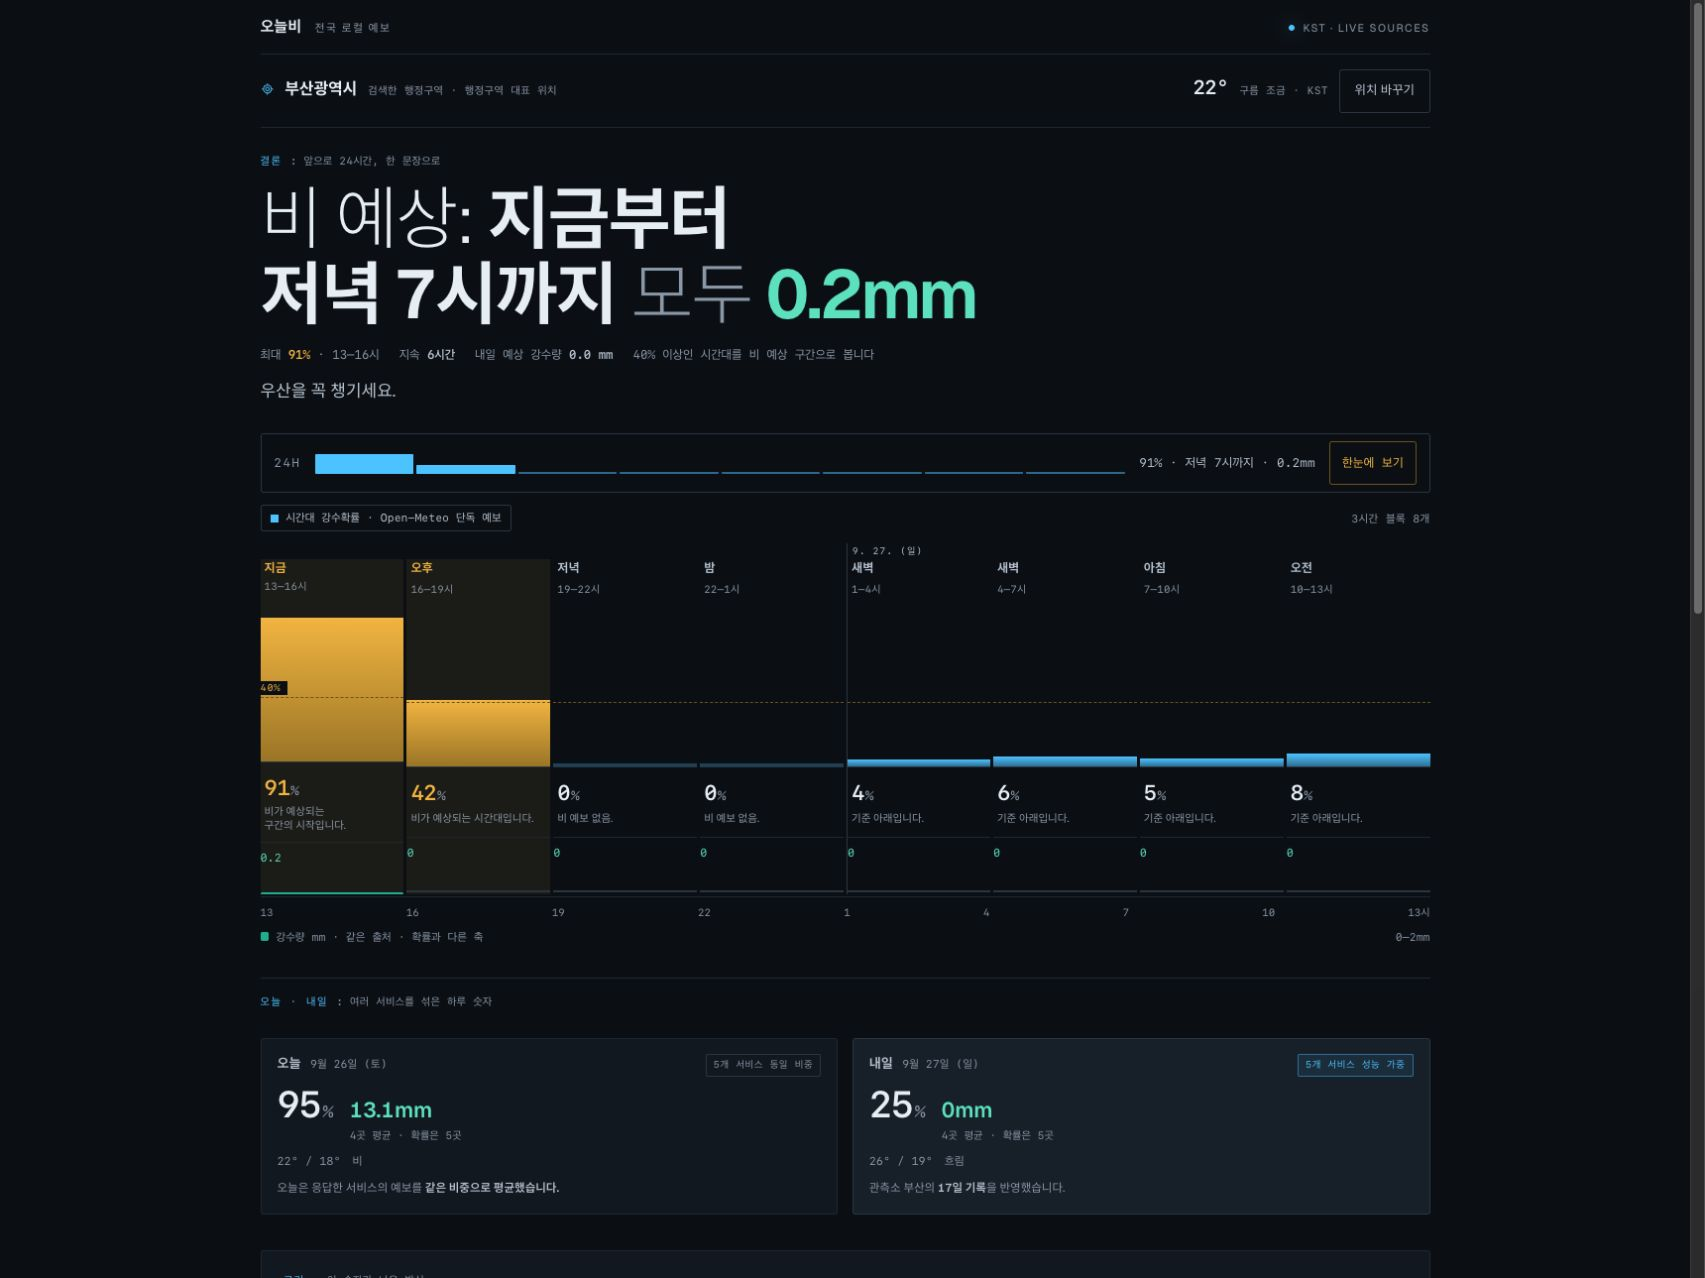
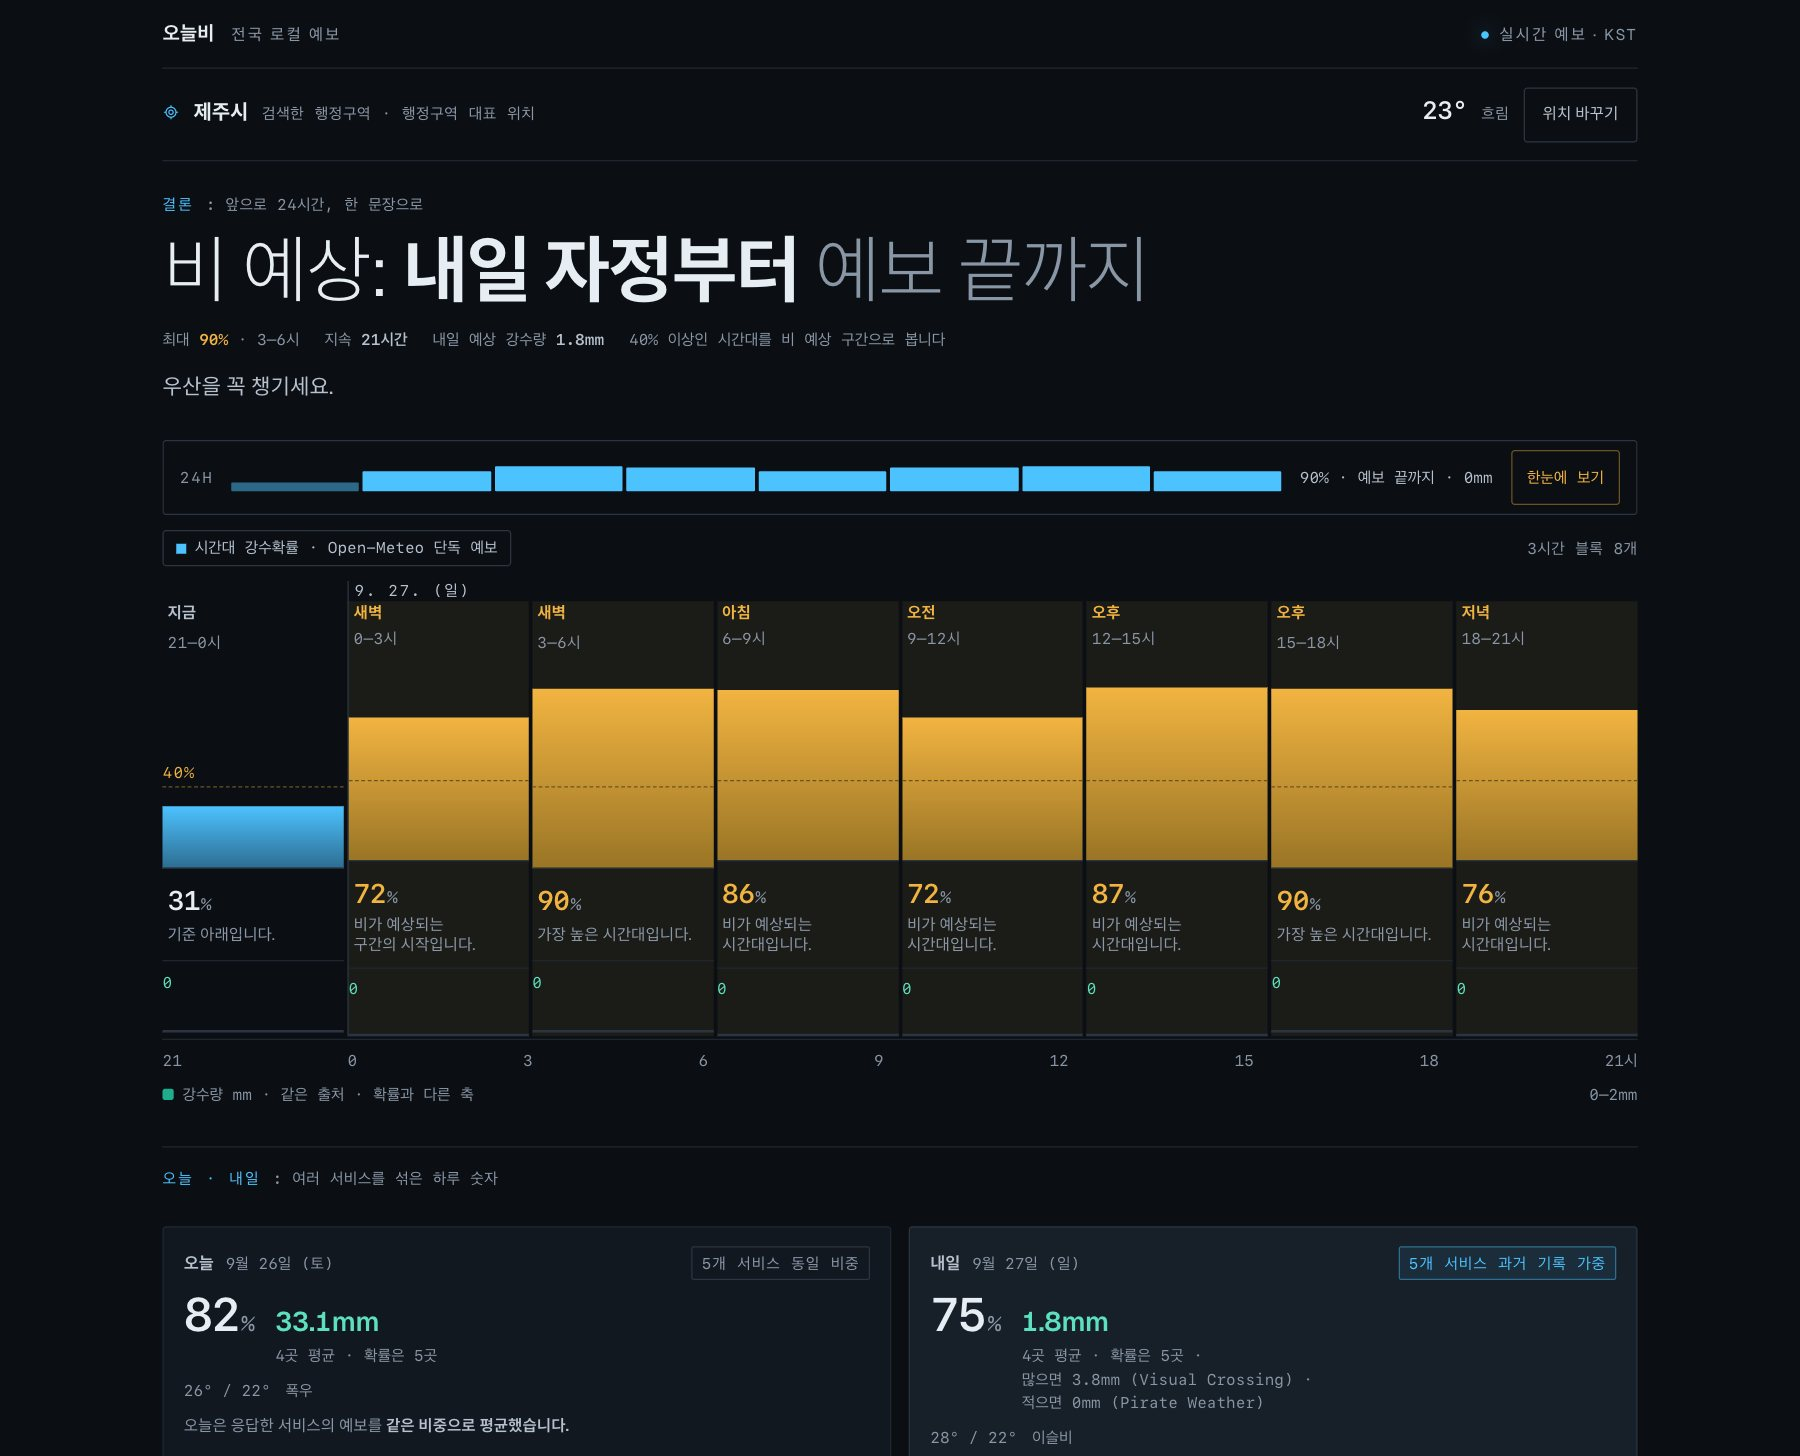
Release 2.0.1: unbroken provider names, a new README screenshot and a release rule (#184)
* fix(ui): keep each amount-range clause and provider name on one line

* docs: retake the README rain screenshot with the current interface

* docs: release every merged change with a semantic version

* chore: release 2.0.1

diff --git a/components/local/LocalForecastExperience.tsx b/components/local/LocalForecastExperience.tsx
@@ -278,8 +278,10 @@ function SearchMark() {
 
 // The no-break space ties each dot to the name before it, so a wrapped list
 // never opens its next line with a separator.
-// A provider is one name: "Pirate Weather" must not break across a line.
-const providerList = COMPARED_PROVIDER_NAMES.map((name) => name.replace(/ /g, "\u00a0")).join("\u00a0· ");
+// A provider is one name ("Pirate Weather"), and "많으면 3.8mm (Visual Crossing)"
+// is one clause: neither may break across a line.
+const keepWhole = (text: string): string => text.replace(/ /g, "\u00a0");
+const providerList = COMPARED_PROVIDER_NAMES.map(keepWhole).join("\u00a0· ");
 
 export function LocationChooser({ onChoose, autoFocus = false, busy = false }: {
   onChoose(input: ChosenForecastLocation): void;
@@ -1342,7 +1344,7 @@ function ForecastDashboard({ forecast, selection, onReset, recordHref }: {
                 {/* The extremes are named members, not percentiles — n≤4 cannot
                     honestly support interval language. */}
                 {amountRange &&
-                  ` · 많으면 ${formatMm(amountRange.maxMm)}mm (${amountRange.maxName}) · 적으면 ${formatMm(amountRange.minMm)}mm (${amountRange.minName})`}
+                  `\u00a0· ${keepWhole(`많으면 ${formatMm(amountRange.maxMm)}mm (${amountRange.maxName})`)}\u00a0· ${keepWhole(`적으면 ${formatMm(amountRange.minMm)}mm (${amountRange.minName})`)}`}
               </small>
             </p>
           </div>

diff --git a/components/local/LocalForecastExperience.test.tsx b/components/local/LocalForecastExperience.test.tsx
@@ -1666,8 +1666,10 @@ test("the tomorrow card attributes its amount range to the providers that said i
   );
   const cells = [...view.container.querySelectorAll(".local-day-mm")].map((c) => c.textContent ?? "");
   // cells[0] is today (plain count), cells[1] is tomorrow (the range).
-  assert.match(cells[1], /많으면 9mm \(Pirate Weather\)/);
-  assert.match(cells[1], /적으면 1mm \(WeatherAPI\)/);
+  // Each clause is one unbreakable unit: a line may break at "·", never inside
+  // "(Pirate Weather)" or between an amount and the provider that said it.
+  assert.match(cells[1], /많으면\u00a09mm\u00a0\(Pirate\u00a0Weather\)/);
+  assert.match(cells[1], /적으면\u00a01mm\u00a0\(WeatherAPI\)/);
   await view.cleanup();
 });
 

diff --git a/AGENTS.md b/AGENTS.md
@@ -19,6 +19,16 @@
 - `lib/locationServiceAreaData.ts` and `lib/performance/stationCatalog.ts` are generated. Use `npm run service-area:generate -- <official-SGIS-shapefile>` and `npm run performance:catalog`; recheck island coverage after geometry regeneration. Keep the geometry server-side and raw SGIS files out of Git.
 - `PERFORMANCE_STORE_CONTRACT_URL` must point only to a disposable database: its tests **TRUNCATE tables**. Capture, seed, and observation scripts write evidence; they are not ordinary validation commands.
 
+## Releases
+
+Every change merged to `main` ships as a release; read-only investigations do not. Pick the version by what a user of the site would notice:
+
+- **Patch** (`2.0.0` → `2.0.1`): fixes, copy, layout, docs, screenshots, dependency updates and operations work.
+- **Minor** (`2.0.1` → `2.1.0`): a new or clearly changed capability, such as a provider, page, forecast rule or scoring rule.
+- **Major** (`3.0.0`): only when the owner decides the product itself has changed.
+
+In the change's own PR, run `npm version <x.y.z> --no-git-tag-version` and commit `package.json` and `package-lock.json`. After the merge, confirm that production serves the merge commit and that CI on `main` passed. Then push an annotated `vX.Y.Z` tag on that commit and publish a GitHub release marked Latest, covering what changed, how it was verified, and its limits. Dependabot merges wait for the next release rather than getting their own.
+
 <!-- antislop:start -->
 ## antislop
 

diff --git a/docs/PROJECT_HANDOFF.md b/docs/PROJECT_HANDOFF.md
@@ -209,3 +209,13 @@ Decisions:
 Checked: layout at 320–1440px in Chromium and WebKit against production.
 
 Next: after the PR merges and production shows the merged SHA, tag `v2.0.0` on main and publish the release.
+
+## 2026-09-26 — v2.0.0 tagged; release rule; 2.0.1
+
+- v2.0.0 was tagged on `361802f` after production served it and main CI passed. The release is published.
+- AGENTS.md now has a **Releases** rule: every merged change ships as a release (patch for fixes, docs and operations; minor for new capability; major only by owner decision). The version bump goes in the change's own PR, and the tag follows verified production.
+- 2.0.1:
+  - Tomorrow's range line keeps "많으면 3.8mm (Visual Crossing)" whole. Production had split the name across lines at desktop width.
+  - The README screenshot is now 제주시 with the current labels. It shows real production forecast data rendered by this branch.
+- Branches: the seven merged local branches were deleted. `reliability-state` stays by design.
+- Tracked-file audit: nothing tracked is gitignored, there are no stray untracked files, `.env.example` has empty values, and every ignored path has a stated reason in `.gitignore`.

diff --git a/README.md b/README.md
@@ -11,9 +11,9 @@
 
 The interface is in Korean. Open the app and choose **서울**, **부산**, **제주**, or **강릉** to try it without sharing your device location.
 
-![Busan rain forecast with a 91% peak rain chance and separate probability and rainfall bands](public/screenshots/forecast-rain.jpg)
+![Jeju City rain forecast with a 90% peak rain chance and separate probability and rainfall bands](public/screenshots/forecast-rain.jpg)
 
-*Busan, September 26, 2026: a live production forecast with a 91% peak rain chance and a visible rain window. The timeline is Open-Meteo’s forecast; the daily cards compare the responding providers. This is a dated screenshot, not current weather.*
+*Jeju City, the evening of September 26, 2026: real production forecast data with a 90% peak rain chance and a rain window starting at midnight. The timeline is Open-Meteo’s forecast; the daily cards compare the responding providers. This is a dated screenshot, not current weather.*
 
 ## What it does
 

diff --git a/docs/OPERATIONS.md b/docs/OPERATIONS.md
@@ -282,5 +282,5 @@ application, these are release identifiers, not a promise of a public API compat
 contract. Describe user-visible changes, validation and limitations in the GitHub release.
 Retain `v1.0.0` at its original SeoulSky commit. `v1.1.0` was the first 오늘비 maintenance
 release. `v2.0.0` marks 오늘비 as the successor to SeoulSky: a different product on the same
-repository. Future compatible fixes normally increment the patch.
+repository. The versioning rule for every later change is in `AGENTS.md` under "Releases".
 Do not archive the repository while the hosted service and scheduled collectors operate.
